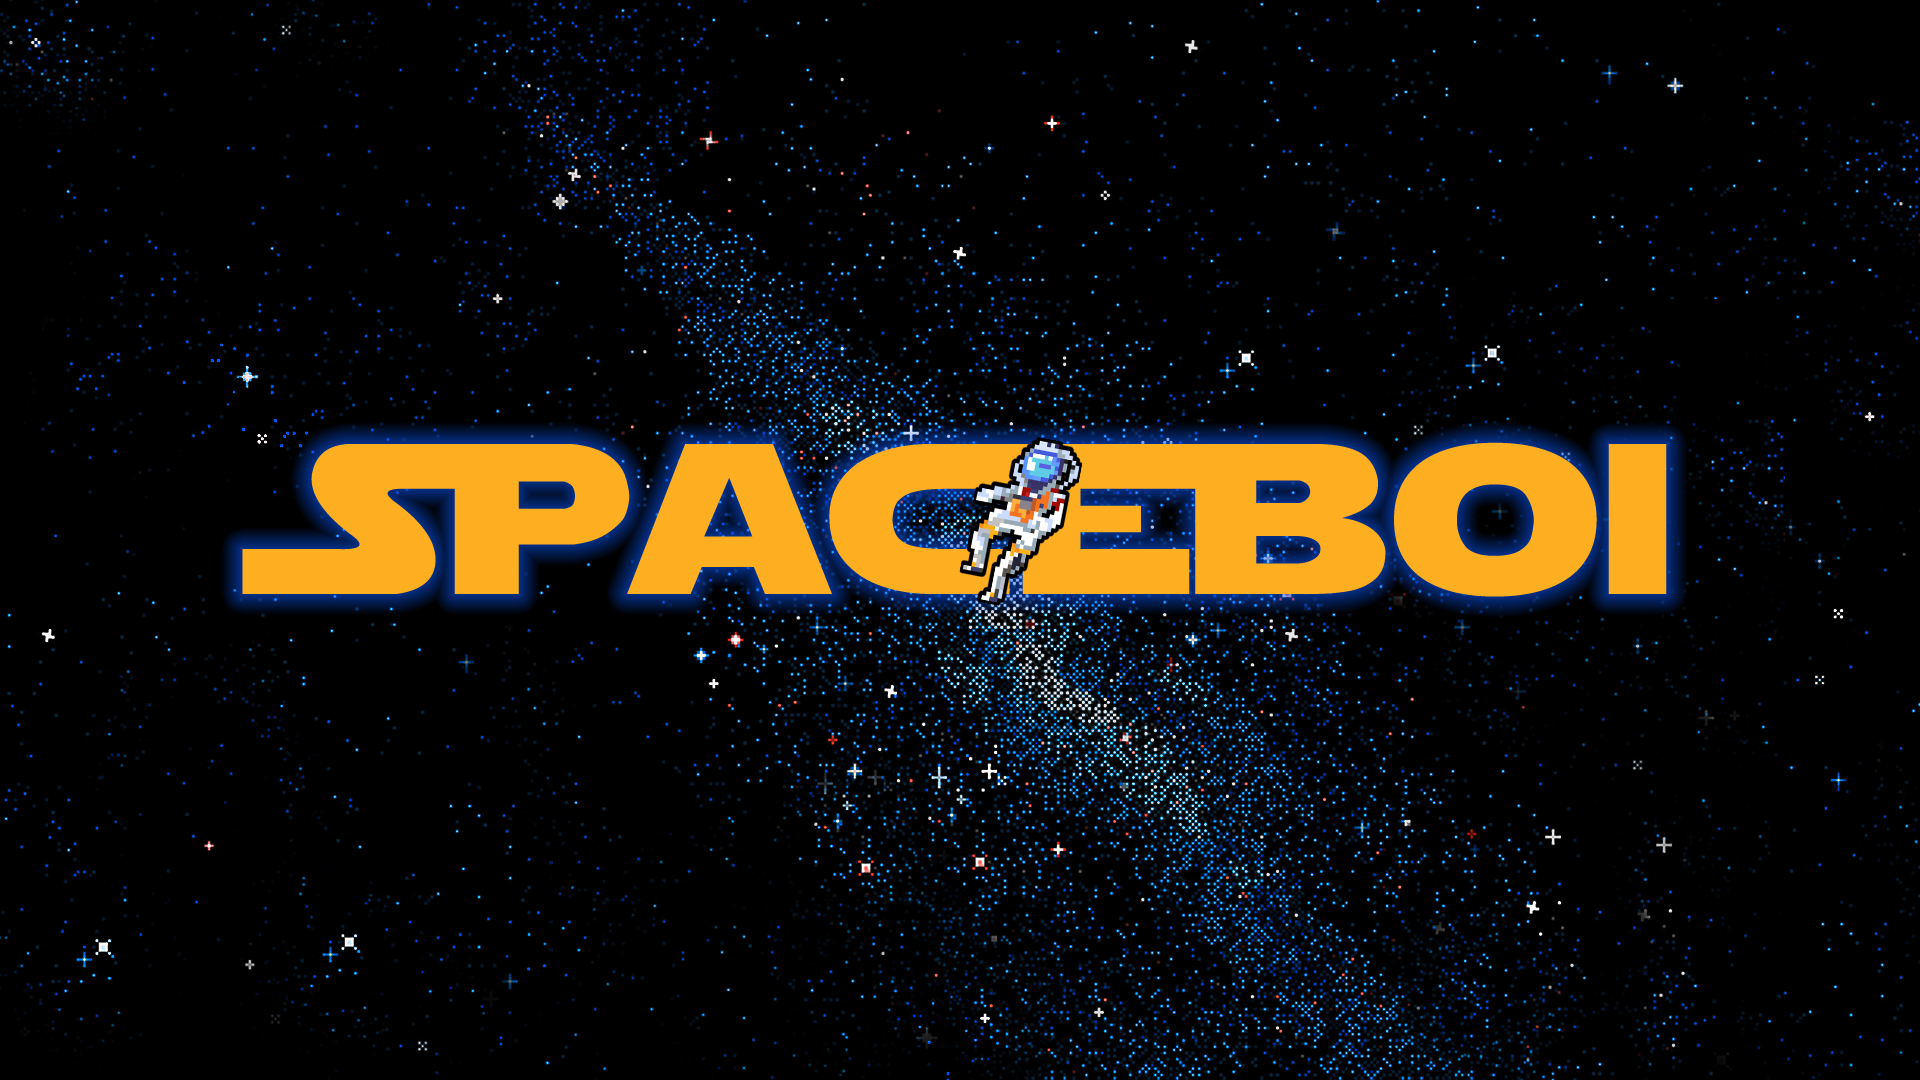
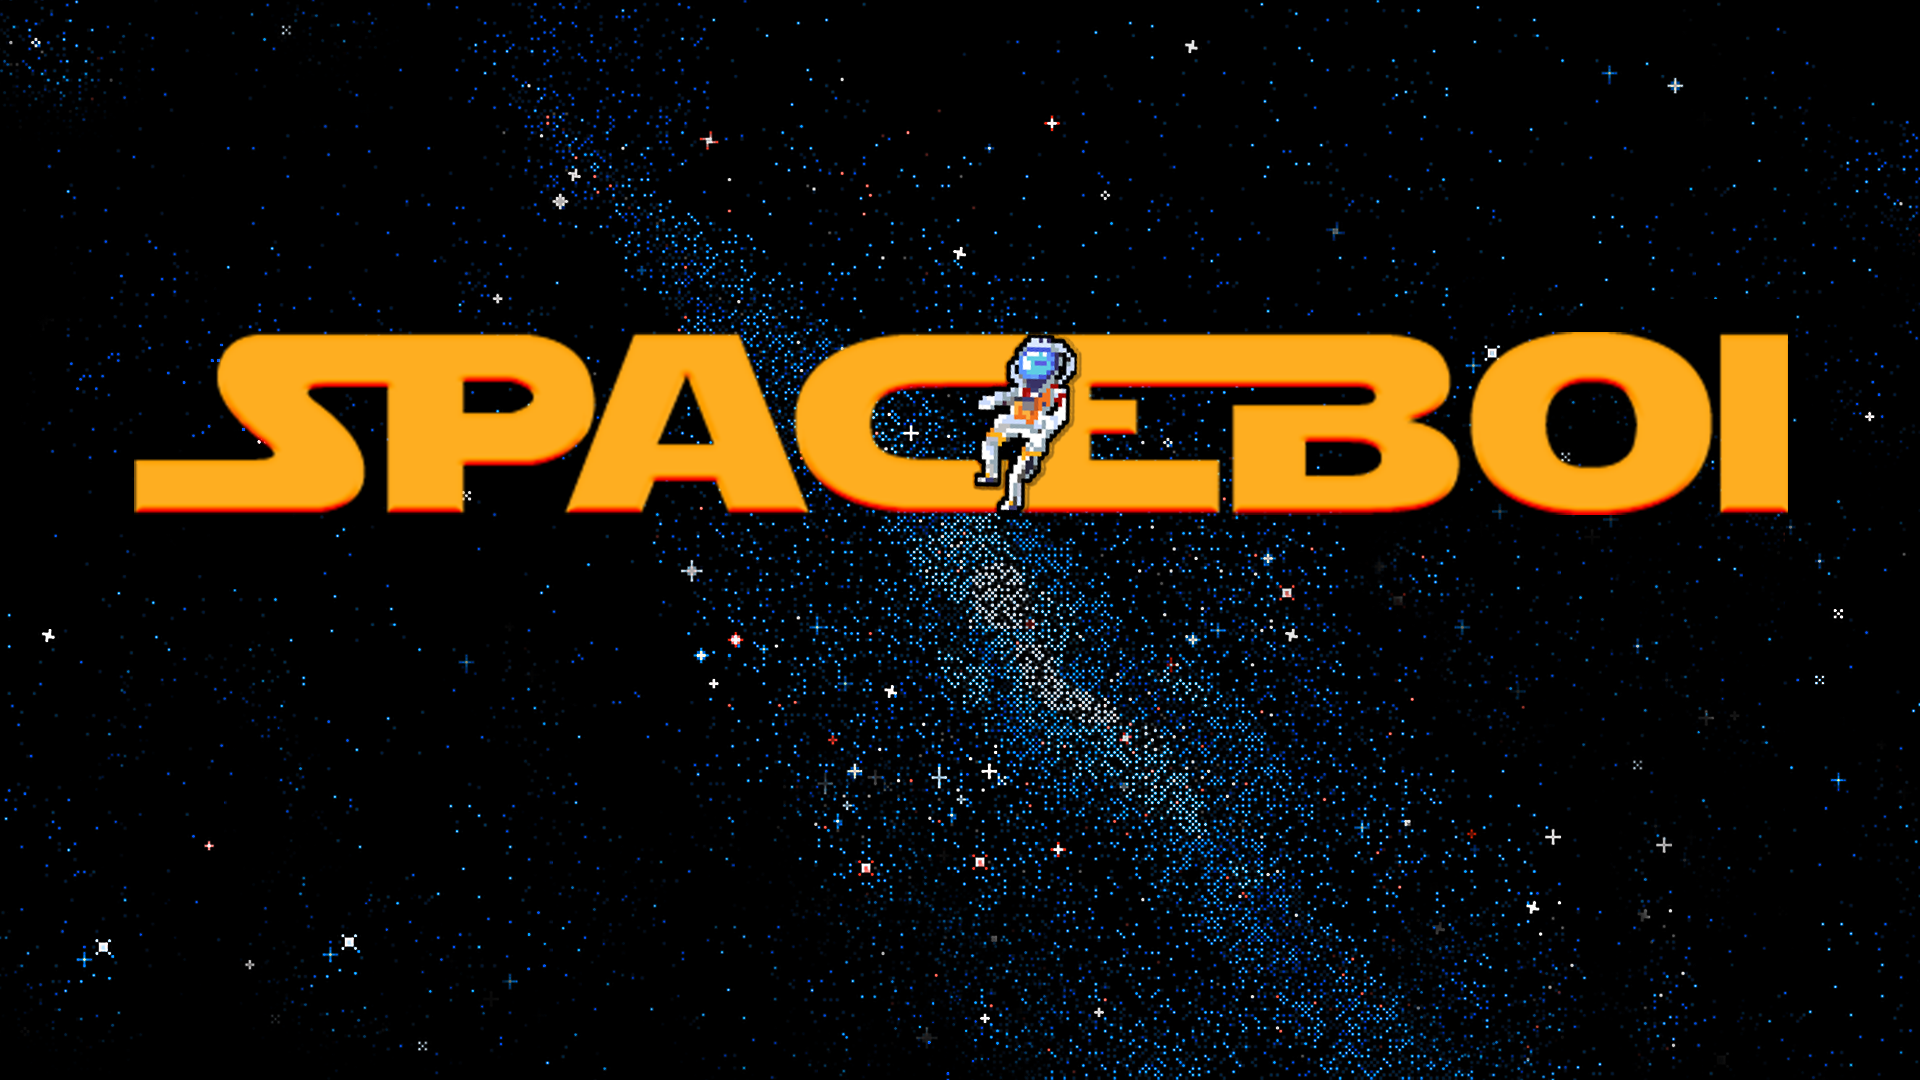
center canvas and body and remove all margin and padding percentages

Changed region(s): [[0.0625, 0.3056, 0.9375, 0.5806]]

diff --git a/js/scripts.js b/js/scripts.js
@@ -10,8 +10,9 @@ var myMusic;
 
 function startGame() {
     $("#title").hide();
+    myObstacles = [];
     myGamePiece = new component(40, 70, "../img/astronaut.png", 500, 150, "image");
-    myScore = new component("25px", "Consolas", "red", 100, 30, "text");
+    myScore = new component("25px", "starjedi", "gold", 100, 30, "text");
     myMusic = new sound("../music/space.mp3");
     mySound = new sound("../music/lose.mp3");
     myMusic.play();
@@ -23,8 +24,8 @@ function startGame() {
 var myGameArea = {
     canvas: document.createElement('canvas'),
     start: function () {
-        this.canvas.width = 1614;
-        this.canvas.height = 750;
+        this.canvas.width = 1920;
+        this.canvas.height = 1080;
         this.context = this.canvas.getContext("2d");
         document.body.insertBefore(this.canvas, document.body.childNodes[0]);
         this.frameNo = 0;
@@ -127,6 +128,7 @@ function updateGameArea() {
             $(myGameArea.canvas).hide();
             $(".endingScreen").show();
             $(".highScore").text(" " + myGameArea.frameNo);
+            return;
         }
     }
     myGameArea.clear();
@@ -138,6 +140,8 @@ function updateGameArea() {
         height = Math.floor(Math.random() * (maxHeight - minHeight + 1) + minHeight);
         minGap = 300;
         maxGap = 700;
+        myObstacles.speedX = 500;
+        myObstacles.speedY = 500;
         sizeRandom = Math.floor(Math.random() * (100 - 50 + 1) + 50);
         gap = Math.floor(Math.random() * (maxGap - minGap + 1) + minGap);
         myObstacles.push(new component(40, 40, "../img/egg.png", Math.floor(Math.random() * (1920 - 0 + 1) + 0), 750, "image"));
@@ -157,7 +161,7 @@ function updateGameArea() {
         myObstacles[i].y += -1;
         myObstacles[i].update();
     }
-    myScore.text = "SCORE: " + myGameArea.frameNo;
+    myScore.text = "SCoRE: " + myGameArea.frameNo;
     myScore.update();
     myGamePiece.newPos();
     myGamePiece.update();

diff --git a/index.html b/index.html
@@ -13,19 +13,23 @@
 </head>
 
 <body class="game transform">
-
-
-    <div id="title" class="game">
-        <p id="titleWords"><span onclick="startGame()"  class="click">Start Game</span></p>
-    </div>
-    <div class="game">
-        <div class="endingScreen">
-            <h1>Game over!</h1>
-            <div id="scoreTryHome">
-                <p id="endScore">Your Score:<span class="highScore"></span></p>
-                <button id="tryAgain">Try Again?</button>
-                <br>
-                <button class="home">Home</button>
+    <div class="container-fluid">
+        <div class="row text-center">
+            <div class="col-12">
+                <div id="title" class="game">
+                    <p id="titleWords"><span onclick="startGame()"  class="click">Start Game</span></p>
+                </div>
+                <div class="game">
+                    <div class="endingScreen">
+                        <h1>Game over!</h1>
+                        <div id="scoreTryHome">
+                            <p id="endScore">Your Score:<span class="highScore"></span></p>
+                            <button id="tryAgain">Try Again?</button>
+                            <br>
+                            <button class="home">Home</button>
+                        </div>
+                    </div>
+                </div>
             </div>
         </div>
     </div>

diff --git a/css/styles.css b/css/styles.css
@@ -1,13 +1,19 @@
+body {
+  width: 1920px;
+  height: 1080px;
+  margin: auto;
+}
+
+
 .game{
-  width: 100%;
-  height: 750px;
-  position: relative;
-  overflow: hidden;;
+  width: 1920px;
+  height: 1080px;
+  margin: 0 auto;
+  overflow: hidden;
 }
 
 canvas {
   text-align: center;
-  position: absolute;
   width: 1920px;
   height: 1080px;
   background-image: url("../img/canvas-gif.gif");
@@ -46,10 +52,10 @@ canvas {
   background-image: url("../img/endscreen.png");
   background-repeat: no-repeat;
   background-size: cover;
-  width: 100%;
-  height: 750px;
-  position: relative;
-  overflow: hidden;;
+  width: 1920px;
+  height: 1080px;
+  overflow: hidden;
+  display: none;
 }
 
 button:hover {
@@ -64,11 +70,9 @@ h1 {
   font-family: starjedi;
   font-weight: bolder;
   font-size: 150px;
-  padding-left: 29%;
 }
 
 #tryAgain {
-  margin-left: 45%; 
   text-align: center;
   border-style: none;
   background: none;
@@ -79,7 +83,6 @@ h1 {
 }
 
 .home {
-  margin-left: 47%; 
   text-align: center;
   border-style: none;
   background: none;
@@ -97,12 +100,4 @@ h1 {
   text-shadow: black 2px 2px;
   font-family: starjedi;
   font-size: 25px;
-}
-
-.endingScreen {
-  display: none;
-} 
-
-#scoreTryHome {
- 
 }
